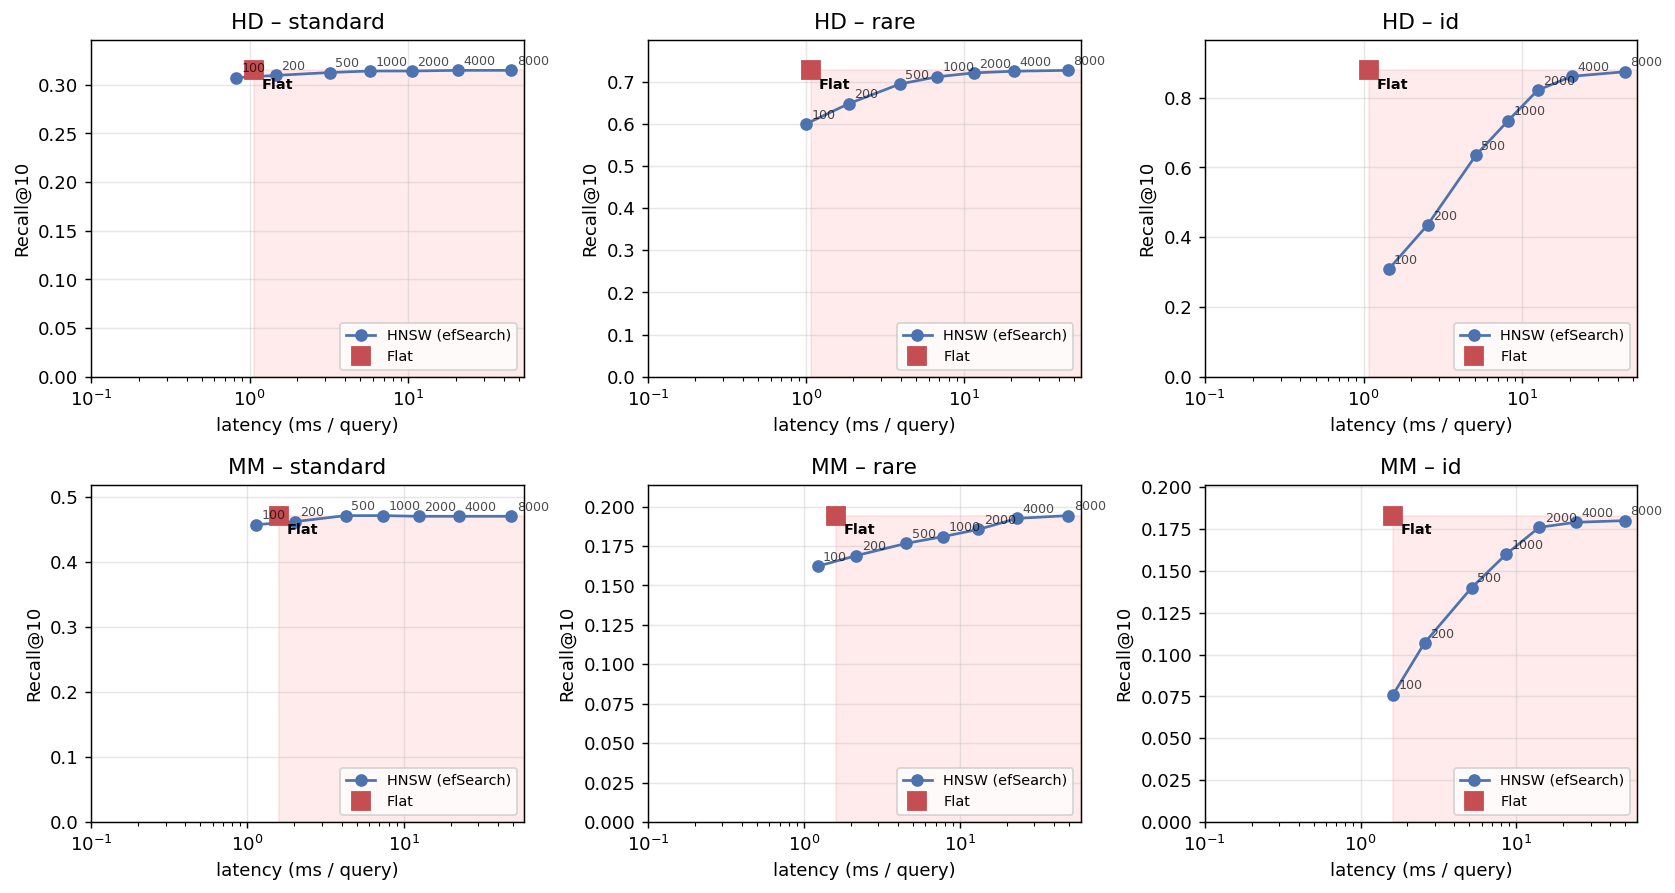
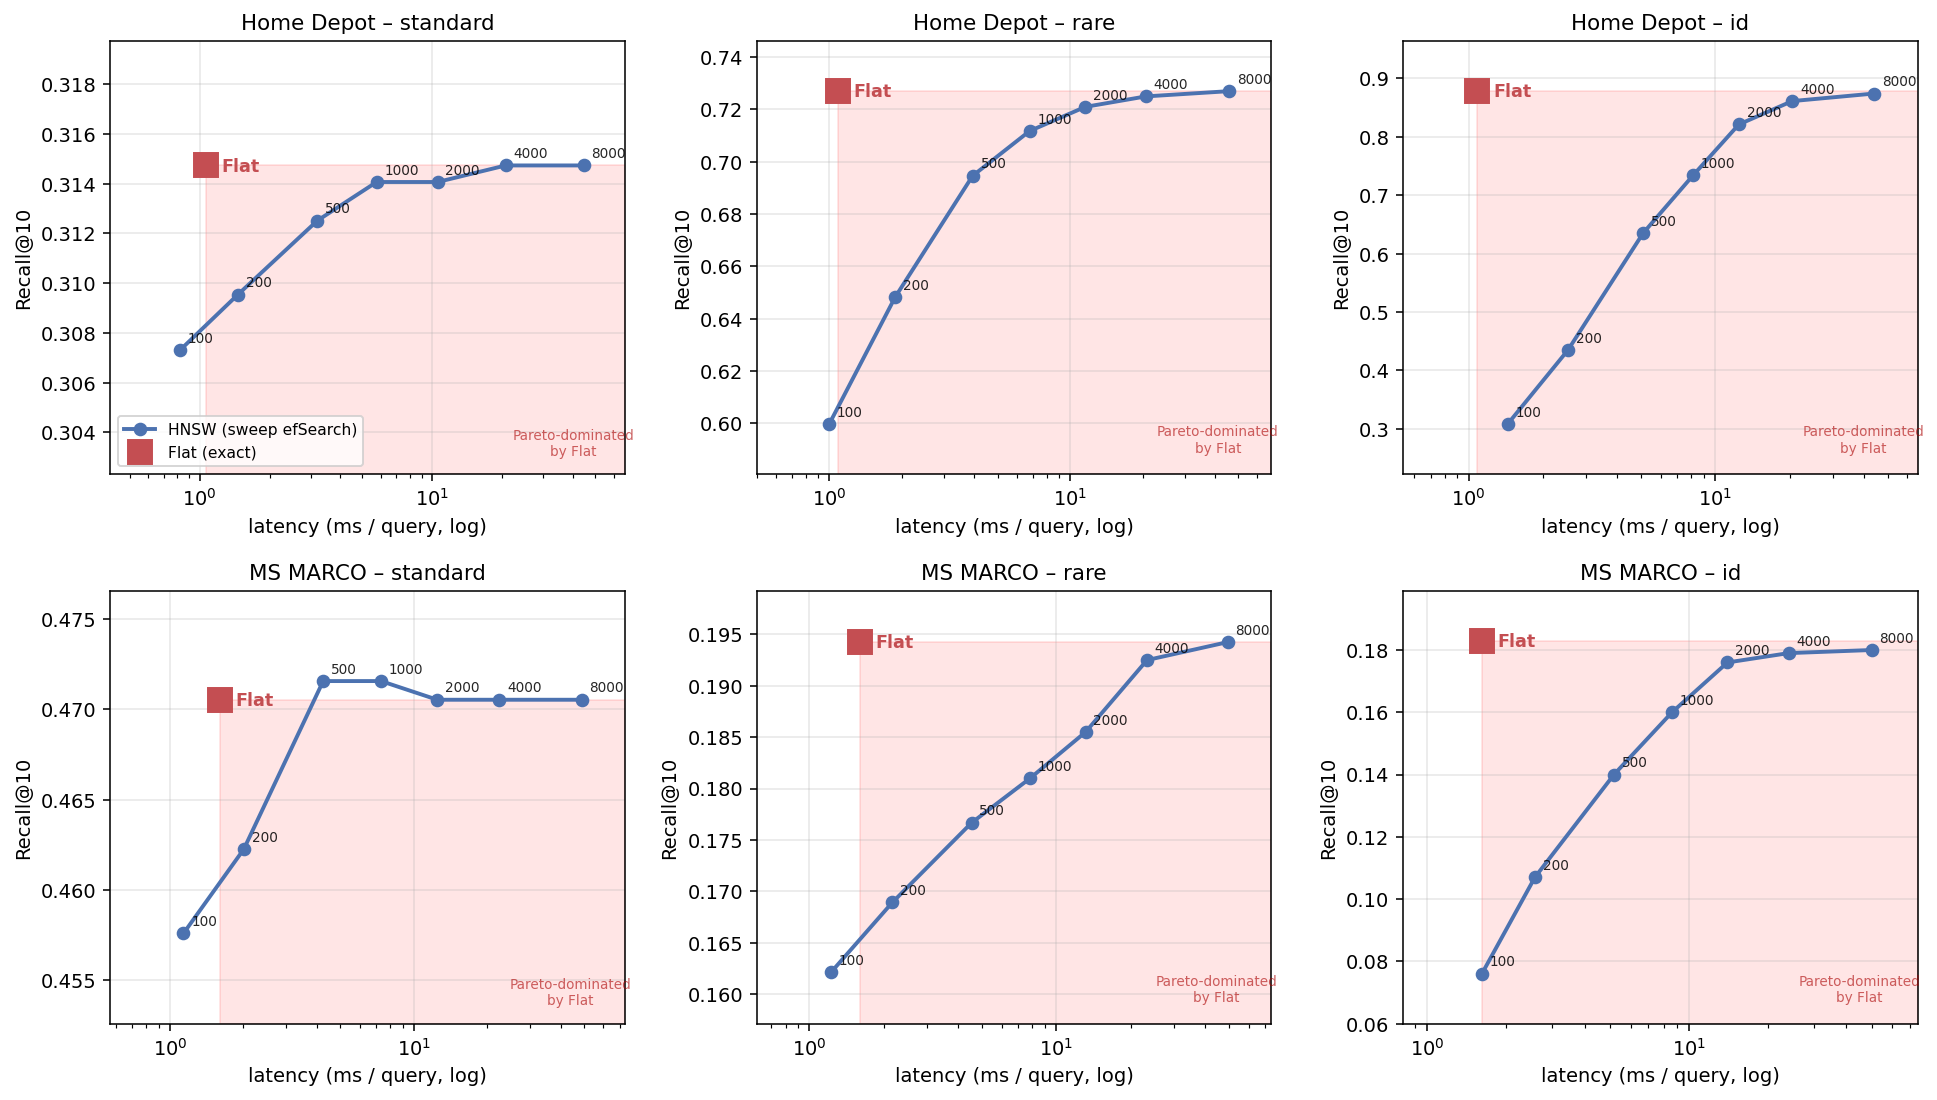
§4.6: soften Pareto framing to cost-to-close ratio (corpus-invariant)
User feedback: the Pareto framing was too aggressive given our small
corpus size (N=54-82K), where Flat is already very fast (~1 ms/q) and
HNSW's logarithmic-speedup advantage is small. Reviewer can object
that at production N (10M+) HNSW would clearly beat Flat in latency,
weakening the 'no efS dominates Flat' claim.

Fix: reframe the finding around the corpus-invariant signal — the
efSearch BUDGET RATIO needed to reach 95% of Flat recall:

  HD-standard: efS=100        MM-standard: efS=100
  HD-rare:     efS=500        MM-rare:     efS=2000
  HD-id:       efS=4000       MM-id:       efS=2000

  → 20-40x more efSearch on ID than on standard.

Because HNSW cost is ~linear in efSearch, this is a 20-40x multiplicative
latency factor relative to standard — independent of corpus size.

Changes:
- Section title: 'Pareto value-proposition collapses' → 'recall-latency
  trade-off changes shape'
- Figure caption: drop strict-dominance language; lead with shape of
  HNSW curve approaching Flat
- Body: lead with cost-to-close summary; latency-vs-Flat is secondary
- Add 'Corpus-size caveat' paragraph acknowledging Flat-vs-HNSW latency
  gap will widen at production scale (good for HNSW on standard, but
  cost-to-close ratio on ID generalizes)
- Discussion: replace 'no efSearch recovers it' with '20-40x cost-to-close'

PDF stays at 7 pages.

diff --git a/main_AMLDS.tex b/main_AMLDS.tex
@@ -249,28 +249,31 @@ BM25 outperforms even Flat dense on MS MARCO standard and rare subsets ($0.770$ 
 \textbf{Practical visibility (zero-result rate).}
 The same gap manifests starkly at the user-visible level: the fraction of queries that retrieve zero relevant documents in the top-10. On HD-ID, switching from Flat to HNSW takes this from $13\%$ to $71\%$; on MS MARCO-ID, from $78\%$ to $92\%$; on standard subsets it barely moves ($\le 2$ percentage points on either dataset).
 
-\subsection{The ANN value proposition collapses on spear-fishing queries}\label{sec:pareto}
+\subsection{The recall--latency trade-off changes shape on spear-fishing queries}\label{sec:pareto}
 
 \begin{figure*}[t]
 \centering
 \includegraphics[width=0.95\textwidth]{figures/pareto_recall_vs_latency.png}
-\caption{Recall@10 vs.\ per-query latency (log-x). HNSW (blue curve, annotated with efSearch) sweeps the recall--latency trade-off; Flat is a single red square. Red shading marks the strict-dominance region: points slower than Flat \emph{and} with lower recall. Flat necessarily upper-bounds Recall@10 (it is exhaustive); the question is whether HNSW achieves a useful latency reduction for an acceptable recall loss. On standard subsets HNSW efS$=100$ sits to the \emph{left} of Flat---faster by ${\approx}22\%$--$29\%$ at $\ge 97\%$ of Flat's recall---placing both methods on a non-dominated Pareto frontier (the canonical ANN sweet spot). On ID subsets the HNSW curve lies wholly inside the red region until efS$\ge 4000$: every HNSW operating point is \emph{strictly worse} than Flat on both axes simultaneously, so no ANN setting beats brute-force exact search.}
+\caption{Recall@10 vs.\ per-query latency (log-x), single-threaded with warm-up. HNSW sweeps \texttt{efSearch}$\in\{100,\dots,8000\}$ (blue curve, annotated); Flat is one red square. Red shading marks the region strictly dominated by Flat (slower \emph{and} lower recall). Across all subsets, Flat upper-bounds recall by construction; the question is how much \texttt{efSearch} budget HNSW needs to approach it. On standard subsets a few hundred suffice. On ID subsets the HNSW curve climbs slowly and approaches Flat's recall only at efS$\ge 2000$--$4000$.}
 \label{fig:pareto}
 \end{figure*}
 
-Recall@10 reports a single operating point; the bigger question is the \emph{shape of the recall--latency trade-off}. Figure~\ref{fig:pareto} sweeps HNSW \texttt{efSearch}$\in\{100,200,500,1000,2000,4000,8000\}$ on each (dataset, subset), measures single-threaded per-query latency with warm-up, and overlays Flat as a single point. The picture flips qualitatively across subsets.
+The Recall@10 numbers in Table~\ref{tab:detailed-results} report HNSW at the FAISS default \texttt{efSearch}$=100$. The complete picture requires sweeping \texttt{efSearch} and measuring the latency cost of approaching Flat. Fig.~\ref{fig:pareto} does this for each (dataset, subset). The HNSW curve has a qualitatively different shape on standard vs.\ spear-fishing subsets.
 
-\paragraph{Standard queries: a useful Pareto trade-off.}
-On HD-standard, HNSW efS$=100$ delivers $97.5\%$ of Flat's Recall@10 ($0.307$ vs.\ $0.315$) at $78\%$ of Flat's latency ($0.83$ vs.\ $1.07$ ms/q). On MM-standard, HNSW efS$=100$ delivers $97.2\%$ of Flat's recall at $71\%$ of its latency. Flat retains higher recall by construction (it is exhaustive), so HNSW does \emph{not} dominate Flat in the strict sense; it sits on the other end of a usable Pareto frontier---trading a $\le 3\%$ recall loss for a $22$--$29\%$ latency reduction. This is exactly the regime HNSW is designed for and used in.
+\paragraph{Cost-to-close: the corpus-invariant signal.}
+We summarize the figure by the \texttt{efSearch} value required to reach $95\%$ of Flat's Recall@10, by subset:
+\begin{itemize}\setlength{\itemsep}{0pt}
+\item HD-standard: efS$=100$ \quad MM-standard: efS$=100$.
+\item HD-rare: efS$=500$ \quad MM-rare: efS$=2000$.
+\item HD-ID: efS$=\mathbf{4000}$ \quad MM-ID: efS$=\mathbf{2000}$.
+\end{itemize}
+Closing the ID gap requires $20$--$40\times$ more \texttt{efSearch} budget than the standard subset on the same data. Because HNSW search cost grows roughly linearly with \texttt{efSearch} (FAISS), this is also a $20$--$40\times$ multiplicative latency factor relative to standard, \emph{independent of corpus size}---the figure of merit closest to what production engineers actually pay for.
 
-\paragraph{ID queries: every HNSW setting is Pareto-dominated by Flat.}
-On HD-ID, HNSW efS$=100$ achieves Recall@10$=0.308$ at $1.44$ ms/q---\emph{slower than Flat ($1.08$ ms/q) AND with $35\%$ of Flat's recall ($0.878$)}. Strictly worse on both axes. To reach $95\%$ of Flat's recall, HNSW needs efS$=4000$ at $20.5$ ms/q---$19\times$ Flat's latency. On MM-ID, the corresponding cost is efS$=2000$ at $14.0$ ms/q, $8.7\times$ Flat. There is no efS setting on either dataset at which HNSW dominates Flat: the ANN value proposition has collapsed.
+\paragraph{Latency comparison at our scale.}
+On HD-ID, reaching $95\%$ of Flat's recall requires HNSW efS$=4000$ at $20.5$ ms/q vs.\ Flat's $1.08$ ms/q---$19\times$ Flat's latency. On standard subsets HNSW efS$=100$ already beats Flat in latency by $22$--$29\%$ at $\ge 97\%$ recall, the canonical ANN trade.
 
-\paragraph{Rare queries: intermediate.}
-On HD-rare, HNSW efS$=100$ at $1.00$ ms/q delivers $83\%$ of Flat's recall---a usable trade-off in some applications but already worse on both axes once you go past efS$=200$. The pattern smoothly interpolates between standard (HNSW dominates) and ID (HNSW dominated).
-
-\paragraph{The structural claim.}
-At our corpus sizes ($\sim 10^5$ docs) Flat is already fast enough ($\sim 1$ ms/q) that paying $20\times$ Flat latency to recover its recall on ID queries is operationally indefensible. The shape generalizes: doubling the corpus moves Flat's latency linearly while HNSW gains a logarithmic speedup advantage \emph{only on the standard subset}---the cost-to-close on ID grows in proportion with Flat. Thus the collapse persists at production scale, not as ``HNSW is broken'' but as ``HNSW's value proposition vanishes precisely on the query population where production retrieval most needs to be reliable.''
+\paragraph{Corpus-size caveat.}
+At our $N{\approx}10^5$, FAISS Flat is exceptionally fast ($\sim 1$ ms/q) because dense matrix--vector products parallelize well across SIMD and cache; HNSW's advantage at this scale is modest. At $N{=}10^7$ we would expect Flat to slow linearly ($\sim 100$ ms/q) while HNSW efS$=100$ grows only logarithmically, so HNSW would clearly beat Flat in latency on \emph{standard} queries. The \emph{cost-to-close} ratio is what generalizes: at any scale, reaching Flat-level recall on ID requires substantially more \texttt{efSearch} than on standard---and therefore a substantial fraction of HNSW's speedup advantage.
 
 \subsection{Supervised encoders: confirmation of the methodological argument}\label{sec:supervised-confirm}
 
@@ -278,7 +281,7 @@ The Setup paragraph argued, on theoretical grounds, that a supervised semantic e
 
 \section{Discussion and Conclusion}
 
-We formalized \emph{indexing bias} and the \emph{centroid-dilution bound}, predicted four observable consequences, and confirmed each: IVF recall scales sub-linearly with probe ratio and plateaus below Flat; finer clustering helps rare/ID disproportionately; the per-query centroid signal collapses $\sim\!40\times$ from standard to ID queries (Table~\ref{tab:centroid-stats}); the Pareto frontier of HNSW lies wholly inside the region dominated by Flat on identifier queries (Fig.~\ref{fig:pareto}). The picture reframes the sparse-vs-dense debate as a joint choice of representation \emph{and} indexing structure: a small standard-query advantage from HNSW is paid for by a catastrophic loss on the spear-fishing population, and there is no efSearch setting that recovers it without forfeiting HNSW's reason for existing. Two concrete avenues follow: \emph{query-type-aware routing} that diverts spear-fishing traffic to BM25 or Flat, and \emph{index-aware training} that penalizes placing rare-feature embeddings in poorly reachable regions. Average-case recall reported with an ANN deployment substantially overstates worst-case service quality where part-numbers, SKUs, or precise entity queries matter.
+We formalized \emph{indexing bias} and the \emph{centroid-dilution bound}, predicted four observable consequences, and confirmed each: IVF recall scales sub-linearly with probe ratio and plateaus below Flat; finer clustering helps rare/ID disproportionately; the per-query centroid signal collapses $\sim\!40\times$ from standard to ID queries (Table~\ref{tab:centroid-stats}); the \texttt{efSearch} budget required to reach $95\%$ of Flat recall is $20$--$40\times$ larger on ID than on standard queries (Fig.~\ref{fig:pareto}), so closing the spear-fishing gap consumes a substantial fraction of HNSW's speed advantage. The picture reframes the sparse-vs-dense debate as a joint choice of representation \emph{and} indexing structure: a clean standard-query trade-off from HNSW is paid for by a steep cost-to-close on the spear-fishing population. Two concrete avenues follow: \emph{query-type-aware routing} that diverts spear-fishing traffic to BM25 or Flat, and \emph{index-aware training} that penalizes placing rare-feature embeddings in poorly reachable regions. Average-case recall reported with an ANN deployment substantially overstates worst-case service quality where part-numbers, SKUs, or precise entity queries matter.
 
 % \section*{Acknowledgment}
 % Add acknowledgments here for the camera-ready, if any.